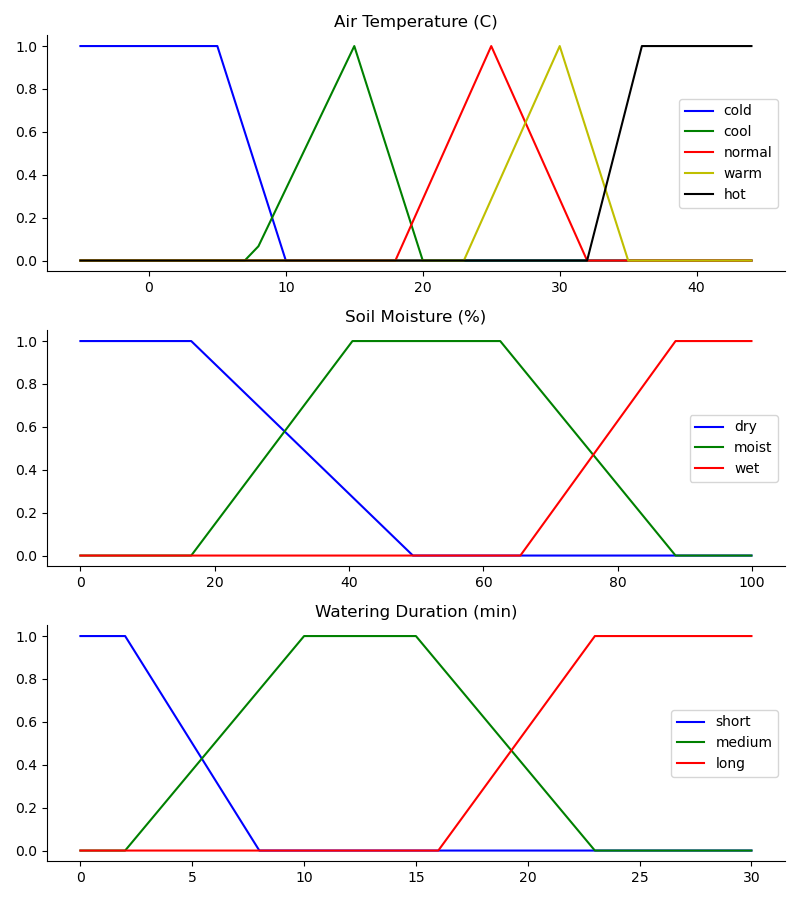
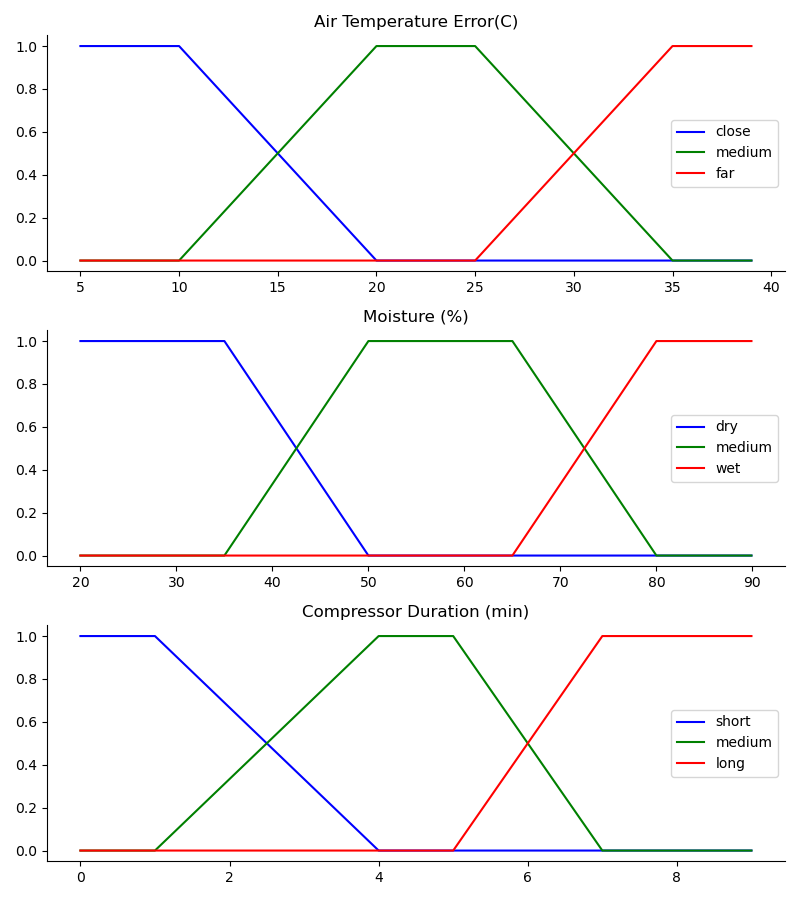
compressor

diff --git a/memberFunction.py b/memberFunction.py
@@ -6,59 +6,54 @@ import matplotlib.pyplot as plt
 # Range
 
 ## range of temp. & soil & watering 
-x_temp_range = np.arange(-5,45,1,np.float32)
-x_soil_range = np.arange(0,100,0.1,np.float32)
-y_time_range=np.arange(0,31,1,np.float32)
+x_temp_range = np.arange(5,40,1,np.float32)
+x_humid_range = np.arange(20,90,0.1,np.float32)
+y_time_range=np.arange(0,10,1,np.float32)
 ##　variable and membership functions
 x_temp = fuzzyControl.Antecedent(x_temp_range,"temp")
-x_soil= fuzzyControl.Antecedent(x_soil_range,"soil")
+x_humid= fuzzyControl.Antecedent(x_humid_range,"humid")
 y_time = fuzzyControl.Consequent(y_time_range,"time")
 
-cold = [-5, -5, 6, 13]
-x_temp["cold"] = fuzzy.trapmf(x_temp_range, cold)
-cool = [7.5,13,15,20]
-x_temp["cool"] = fuzzy.trapmf(x_temp_range,cool)
-normal = [15,18,22,32]
-x_temp["normal"] = fuzzy.trapmf(x_temp_range,normal)
-warm = [23,28,35]
-x_temp["warm"] = fuzzy.trimf(x_temp_range,warm)
-hot = [32,36,45,45]
-x_temp["hot"] = fuzzy.trapmf(x_temp_range,hot)
+close = [5, 5, 10, 20]
+x_temp["close"] = fuzzy.trapmf(x_temp_range, close)
+temp_medium = [10,20,25,35]
+x_temp["medium"] = fuzzy.trapmf(x_temp_range, temp_medium)
+far = [25,35,40,40]
+x_temp["far"] = fuzzy.trapmf(x_temp_range, far)
 
-dry = [0,0,28,46]
-x_soil["dry"] = fuzzy.trapmf(x_soil_range,dry)
-moist = [35,42.5,72.5,88.6]
-x_soil["moist"] = fuzzy.trapmf(x_soil_range,moist)
-wet = [65.5,88.6,100,100]
-x_soil["wet"] = fuzzy.trapmf(x_soil_range,wet)
 
-short = [0,0,5,8]
+dry = [20,20,35,50]
+x_humid["dry"] = fuzzy.trapmf(x_humid_range,dry)
+humid_medium = [35,50,65,80]
+x_humid["medium"] = fuzzy.trapmf(x_humid_range, humid_medium)
+wet = [65,80,90,90]
+x_humid["wet"] = fuzzy.trapmf(x_humid_range, wet)
+
+short = [0,0,1,4]
 y_time["short"] = fuzzy.trapmf(y_time_range,short)
-medium = [2,12,17.5,23]
+medium = [1,4,5,7]
 y_time["medium"] = fuzzy.trapmf(y_time_range,medium)
-long = [14,26,30,30]
+long = [5,7,10,10]
 y_time["long"] = fuzzy.trapmf(y_time_range,long)
 
 # Visualize these universes and membership functions
 fig,(figure1,figure2,figure3)=plt.subplots(nrows=3,figsize=(8,9))
-figure1.plot(x_temp_range,fuzzy.trapmf(x_temp_range, cold),'b',linewidth=1.5,label='cold')
-figure1.plot(x_temp_range,fuzzy.trapmf(x_temp_range,cool),'g',linewidth=1.5,label='cool')
-figure1.plot(x_temp_range,fuzzy.trapmf(x_temp_range,normal),'r',linewidth=1.5,label='normal')
-figure1.plot(x_temp_range,fuzzy.trimf(x_temp_range,warm),'y',linewidth=1.5,label='warm')
-figure1.plot(x_temp_range,fuzzy.trapmf(x_temp_range,hot),'k',linewidth=1.5,label='hot')
-figure1.set_title('Air Temperature (C)')
+figure1.plot(x_temp_range,fuzzy.trapmf(x_temp_range, close),'b',linewidth=1.5,label='close')
+figure1.plot(x_temp_range,fuzzy.trapmf(x_temp_range,temp_medium),'g',linewidth=1.5,label='medium')
+figure1.plot(x_temp_range,fuzzy.trapmf(x_temp_range,far),'r',linewidth=1.5,label='far')
+figure1.set_title('Air Temperature Error(C)')
 figure1.legend()
 
-figure2.plot(x_soil_range,fuzzy.trapmf(x_soil_range,dry),'b',linewidth=1.5,label='dry')
-figure2.plot(x_soil_range,fuzzy.trapmf(x_soil_range,moist),'g',linewidth=1.5,label='moist')
-figure2.plot(x_soil_range,fuzzy.trapmf(x_soil_range,wet),'r',linewidth=1.5,label='wet')
-figure2.set_title('Soil Moisture (%)')
+figure2.plot(x_humid_range,fuzzy.trapmf(x_humid_range,dry),'b',linewidth=1.5,label='dry')
+figure2.plot(x_humid_range,fuzzy.trapmf(x_humid_range,humid_medium),'g',linewidth=1.5,label='medium')
+figure2.plot(x_humid_range,fuzzy.trapmf(x_humid_range,wet),'r',linewidth=1.5,label='wet')
+figure2.set_title('Moisture (%)')
 figure2.legend()
 
 figure3.plot(y_time_range,fuzzy.trapmf(y_time_range,short),'b',linewidth=1.5,label='short')
 figure3.plot(y_time_range,fuzzy.trapmf(y_time_range,medium),'g',linewidth=1.5,label='medium')
 figure3.plot(y_time_range,fuzzy.trapmf(y_time_range,long),'r',linewidth=1.5,label='long')
-figure3.set_title('Watering Duration (min)')
+figure3.set_title('Compressor Duration (min)')
 figure3.legend()
 
 # plot 2d figures

diff --git a/defuzzification.py b/defuzzification.py
@@ -2,13 +2,13 @@ from cProfile import label
 from os import system
 import skfuzzy.control as fuzzyControl
 
-from memberFunction import x_temp, x_soil, y_time
+from memberFunction import x_temp, x_humid, y_time
 
 y_time.defuzzify_method = 'centroid'
 
-ruleLong = fuzzyControl.Rule(antecedent=((x_temp["hot"]&x_soil["dry"])|(x_temp["warm"]&x_soil["dry"])), consequent=y_time['long'], label='Long')
-ruleMedium = fuzzyControl.Rule(antecedent=((x_temp["cool"]&x_soil["moist"])|(x_temp["cool"]&x_soil["dry"])|(x_temp["hot"]&x_soil["moist"])|(x_temp["warm"]&x_soil["moist"])|(x_temp["normal"]&x_soil["moist"])|(x_temp["normal"]&x_soil["dry"])), consequent = y_time["medium"], label="Medium")
-ruleShort = fuzzyControl.Rule(antecedent=((x_temp["cold"]&x_soil["moist"])|(x_temp["hot"]&x_soil["wet"])|(x_temp["warm"]&x_soil["wet"])|(x_temp["normal"]&x_soil["wet"])|(x_temp["cool"]&x_soil["wet"])|(x_temp["cold"]&x_soil["wet"])|(x_temp['cold']&x_soil['dry'])), consequent=y_time["short"], label="Short")
+ruleLong = fuzzyControl.Rule(antecedent=((x_temp["far"]&x_humid["wet"])|(x_temp["far"]&x_humid["medium"])|(x_temp["medium"]&x_humid["wet"])), consequent=y_time['long'], label='Long')
+ruleMedium = fuzzyControl.Rule(antecedent=((x_temp["medium"]&x_humid["medium"])|(x_temp["far"]&x_humid["dry"])|(x_temp["close"]&x_humid["wet"])|(x_temp["close"]&x_humid["medium"])), consequent = y_time["medium"], label="Medium")
+ruleShort = fuzzyControl.Rule(antecedent=((x_temp["close"]&x_humid["dry"])|(x_temp["medium"]&x_humid["dry"])), consequent=y_time["short"], label="Short")
 
 system = fuzzyControl.ControlSystem([ruleLong, ruleMedium, ruleShort])
 systemSimu = fuzzyControl.ControlSystemSimulation(system)
@@ -16,13 +16,13 @@ systemSimu = fuzzyControl.ControlSystemSimulation(system)
 if __name__=='__main__':
     while True :
         # Case test
-        input_temp=input("Please enter air temperature in Celsiust\nor enter exit to leave \n")
+        input_temp=input("Please enter air temperature error in Celsiust (5-40)\nor enter exit to leave \n")
         if input_temp == 'exit':
             break
-        input_soil=input("Please enter soil moisture in percent\n")
+        input_humid=input("Please enter air moisture in percent (20-90)\n")
 
         systemSimu.input["temp"]=int(input_temp)
-        systemSimu.input["soil"]=int(input_soil)
+        systemSimu.input["humid"]=int(input_humid)
 
         ## system compute
         systemSimu.compute()

diff --git a/drawSurface.py b/drawSurface.py
@@ -4,11 +4,11 @@ import numpy as np
 from mpl_toolkits.mplot3d import Axes3D
 
 from defuzzification import systemSimu
-from memberFunction import x_soil_range, x_temp_range
+from memberFunction import x_humid_range, x_temp_range
 
 def time(x, y):
     systemSimu.input['temp'] = y
-    systemSimu.input['soil'] = x
+    systemSimu.input['humid'] = x
     systemSimu.compute()
     return systemSimu.output['time']
 
@@ -16,10 +16,10 @@ fig_1 = plt.figure()
 ax = Axes3D(fig_1, auto_add_to_figure=False)
 fig_1.add_axes(ax)
 
-X, Y = np.meshgrid(x_soil_range, x_temp_range)
+X, Y = np.meshgrid(x_humid_range, x_temp_range)
 ax.plot_surface(X, Y, time(X, Y), rstride=1,cstride=1,cmap=plt.cm.coolwarm)
-ax.set_xlabel('Soil moisture',color='r')
-ax.set_ylabel('Air Temperature',color='g')
-ax.set_zlabel('Watering Time',color='b')
+ax.set_xlabel('Air moisture',color='r')
+ax.set_ylabel('Air Temperature error',color='g')
+ax.set_zlabel('Compressor Time',color='b')
 
 plt.show()

diff --git a/README.md b/README.md
@@ -1,102 +1,70 @@
 # Getting started
+
 This program is written fully in Python. Necessary packages are listed in `packages.txt`. If you use conda as python package and environment manager, install required packages by running the following command in your terminal.
+
 ```
-$ conda create --name <env> --file packages.txt
+conda create --name <env> --file packages.txt
 ```
 
 ## Programs
-- Member functions are defined in `memberFunction.py`, run this file to see the member function graph.
-- Run `defuzzification.py` to test the control system by enter air temp. and soil moisture. Enter "exit" to leave the control system. Fuzzy rules are defined here.
-- Run `drawSurface.py` to check out the performance graph. 
 
-# The initial settings
-Roll back to [this commit](https://github.com/bencer3283/FuzzyIntro/tree/f8c130db03f7717e3be07e111ea787a6a3fa1187) for initial settings, including old MF nodes (in `memberFunction.py`) and rules(in `defuzzication.py`). 
+- Member functions are defined in `memberFunction.py`, run this file to see the member function graph.
+- Run `defuzzification.py` to test the control system by enter air temp. and air moisture. Enter "exit" to leave the control system. Fuzzy rules are defined here.
+- Run `drawSurface.py` to check out the performance graph.
+
 ## Member function
+
 ![](graphs/iniMF.png)
 
+## Rules
+
+|        | close | medium |  far   |
+|--------|-------|--------|--------|
+| dry    | short |  short   | medium |
+| medium |medium | medium |  long  |
+| wet    |medium |   long  |  long  |
+
 ## Some case test
-### Extreme end of universe:
+
+### Extreme end of universe
+
 At the extreme end the time seems to go to the same value of ~2.8.
+
 - Temp: -5, Soil: 0
-    - Time: 2.8000000145037967
+  - Time: 2.8000000145037967
 - Temp: -5, Soil: 100
-    - Time: 2.8000000145037967
+  - Time: 2.8000000145037967
 - Temp: 45, Soil: 0
-    - Time: 24.55555552181113
+  - Time: 24.55555552181113
 - Temp: 45, Soil: 100
-    - Time: 2.8000000145037967
-### Extreme end of each MF:
+  - Time: 2.8000000145037967
+
+### Extreme end of each MF
+
 Watering time seems wiredly low at end of MFs.
+
 - Temp: 10, Soil: 50
-    - Time: 3.523809523809524
+  - Time: 3.523809523809524
 - Temp: 8, Soil: 50
-    - Time: 3.4352941244359383
+  - Time: 3.4352941244359383
 - Temp: 20, Soil: 17
-    - Time: 12.499999999999998
+  - Time: 12.499999999999998
 - Temp: 32, Soil: 100
-    - Time: 3.187096760318533
+  - Time: 3.187096760318533
 - Temp: 35, Soil: 66
-    - Time: 12.44622626691289
+  - Time: 12.44622626691289
 
-### MF overlaps: 
+### MF overlaps
+
 It seems like the system hesitate to raise watering time too much.
+
 - Temp: 9, Soil: 30
-    - Time: 11.104804798990116
+  - Time: 11.104804798990116
 - Temp: 19, Soil: 74
-    - Time: 10.353458111049935
+  - Time: 10.353458111049935
 - Temp: 27, Soil: 30
-    - Time: 17.0306432075052
+  - Time: 17.0306432075052
 
 ## Performance surface
-Some problems observed here:
-1. Watering time seems overwhelmingly dominated by soil moisture.
-1. The control system hesitate too much to raise watering time.
-2. Some cutoffs are clearly too sharp. 
+
 ![](graphs/initPS.png)
-
-# The revised settings
-The current version. Following modifitaions made:
-- Increased overlap to reduce sharp cutoff.
-- Increasde range of normal and above temperature.
-- Increased membership towards longer time.
-- Rules are modified. Cool & moist is added to medium.
-## Member function
-![](graphs/newMF.png)
-
-## Some case test
-### Extreme end of universe:
-Not much difference here, extreme cold/wet case still always leads to low watering.
-- Temp: -5, Soil: 0
-    - Time: 3.307692321564789
-- Temp: -5, Soil: 100
-    - Time: 3.307692321564789
-- Temp: 45, Soil: 0
-    - Time: 24.399999996473394
-- Temp: 45, Soil: 100
-    - Time: 3.307692321564789
-
-### Extreme end of each MF:
-These middle range ends of MF all seems to yeild middle range watering.
-- Temp: 13, Soil: 46
-    - Time: 13.39862544732253
-- Temp: 20, Soil: 35
-    - Time: 13.120765718985432
-- Temp: 15, Soil: 66
-    - Time: 13.349196021984913
-- Temp: 32, Soil: 66
-    - Time: 12.869082115105352
-- Temp: 32, Soil: 46
-    - Time: 12.951948050753762
-
-### MF overlaps:
-All resulting watering are a bit higher.
-- Temp: 9, Soil: 30
-    - Time: 9.19252148304985
-- Temp: 19, Soil: 74
-    - Time: 12.212077396151347
-- Temp: 27, Soil: 30
-    - Time: 18.604120117725422
-
-## Performance surface
-The steep cutoff are removed. High watering regions are increased.
-![](graphs/newPS.png)
